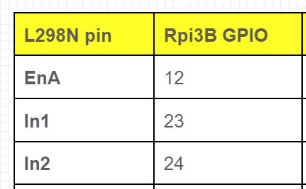
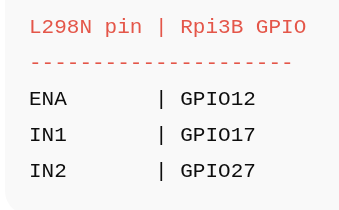
Add section 04 pin tablosu duzeltildi

diff --git a/README.md b/README.md
@@ -22,3 +22,6 @@ This repository contains the commands, source codes, and circuit schematics used
 ### Bölüm 1 – OS Kurulumu, WiFi & SSH
 [![YouTube Video](https://i9.ytimg.com/vi/nQsEsDezThc/mqdefault.jpg?v=694fe16a&sqp=CJzrv8oG&rs=AOn4CLCEFK-z9Du0YhRRnBU-5nTk-6O_6g)](https://www.youtube.com/watch?v=nQsEsDezThc)
 
+### Bölüm 2 - Pi ve L298N Bağlantı & Kablolama
+
+### Bölüm 3 - Kodlama ve PWM 